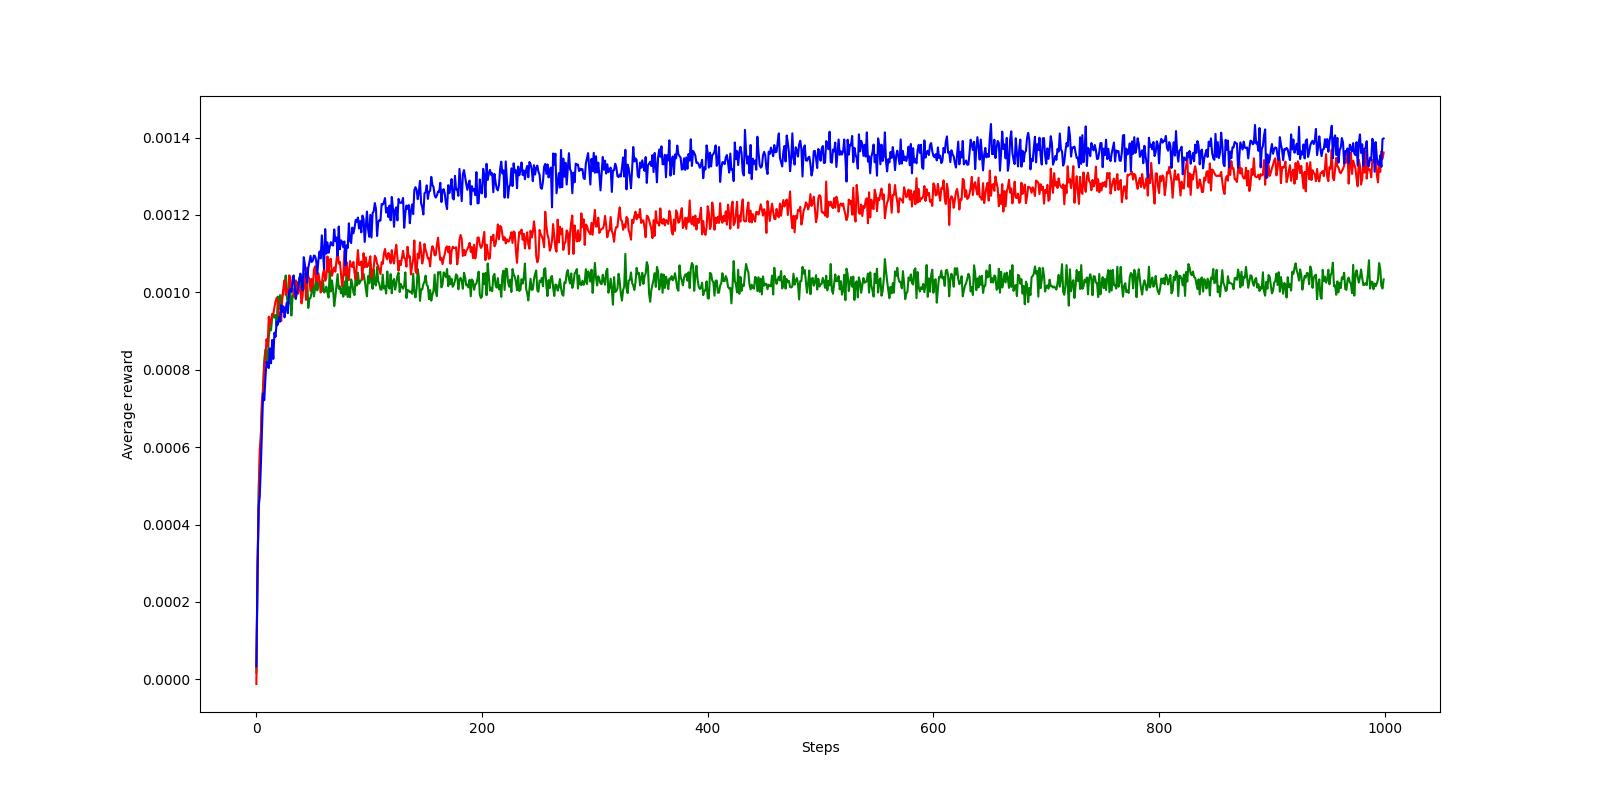
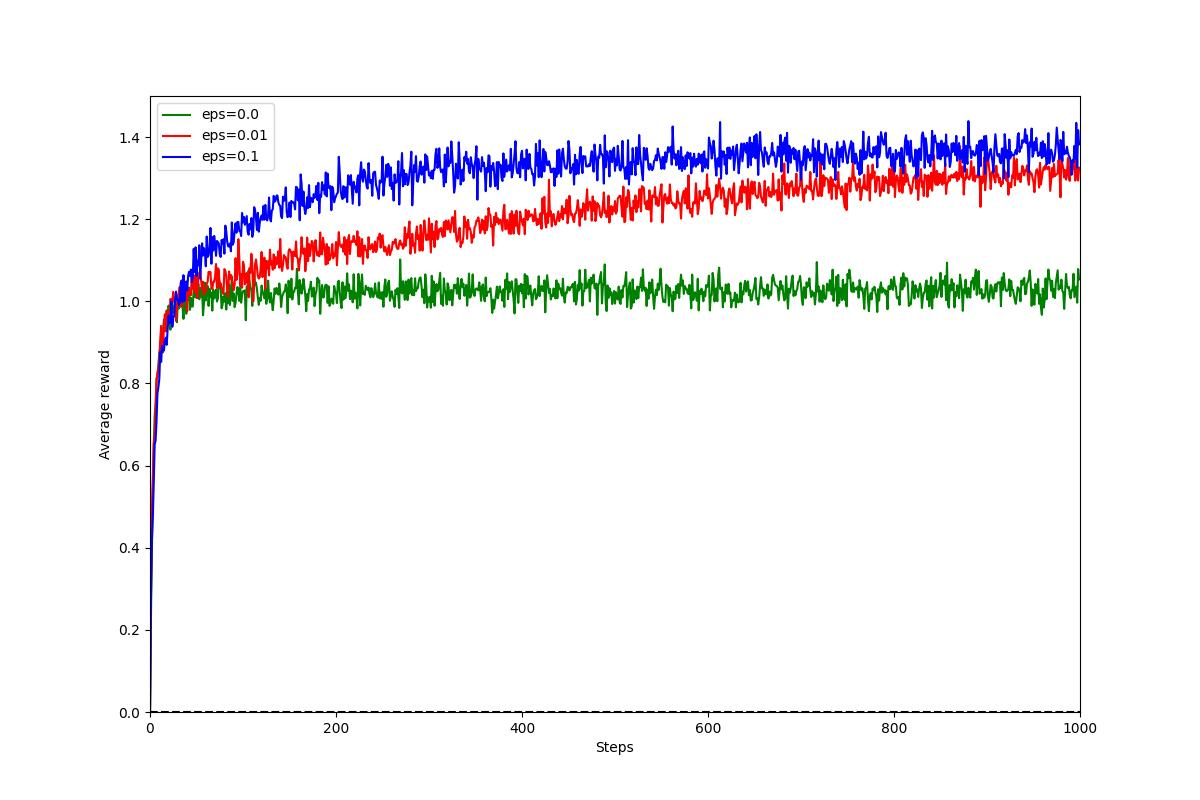
update: fix calculation and plot

diff --git a/10armed_testbed/main.py b/10armed_testbed/main.py
@@ -43,7 +43,6 @@ def run_simulation(k, eps):
             num_opt_action[step_idx-1] = num_opt_action[step_idx-2] + (action == np.argmax(q_true)) # for fig 2.3
         percent_opt_action[step_idx-1] = num_opt_action[step_idx-1] / step_idx # for fig 2.3
 
-    reward_per_steps /= num_steps
     return reward_per_steps, percent_opt_action
 
 if __name__ == "__main__":
@@ -54,27 +53,30 @@ if __name__ == "__main__":
     percent_opt_action_list = np.array([[0.0]*1000 for _ in range(len(eps_list))])
     avg_reward_list = np.array([[0.0]*1000 for _ in range(len(eps_list))])
 
-    plt.figure(figsize=(16, 8))
+    plt.figure(figsize=(12, 8))
     for eps_idx, eps in enumerate(eps_list):
-        print("Running simulation for eps=0.0")
+        print(f"Running simulation for eps={eps}")
         for run_idx in tqdm(range(1, num_runs+1)):
             reward_per_steps, percent_opt_action = run_simulation(k, eps)
             avg_reward_list[eps_idx] += (reward_per_steps - avg_reward_list[eps_idx]) / run_idx # avg over runs
             percent_opt_action_list[eps_idx] += (percent_opt_action - percent_opt_action_list[eps_idx]) / run_idx # avg over runs
-        plt.plot(avg_reward_list[eps_idx], color=colors[eps_idx])
+        plt.plot(avg_reward_list[eps_idx], color=colors[eps_idx], label=f"eps={eps}")
     plt.xlabel("Steps")
     plt.ylabel("Average reward")
+    plt.hlines(y=0, xmin=0, xmax=1000, color='k', linestyle='--')
     plt.xlim(0, 1000)
     plt.ylim(0, 1.5)
+    plt.legend()
     plt.savefig("./outputs/fig22.jpg")
     # plt.show()
 
-    plt.figure(figsize=(16, 8))
+    plt.figure(figsize=(12, 8))
     for eps_idx in range(len(eps_list)):
-        plt.plot(percent_opt_action_list[eps_idx], color=colors[eps_idx])
+        plt.plot(percent_opt_action_list[eps_idx], color=colors[eps_idx], label=f"eps={eps_list[eps_idx]}")
     plt.xlabel("Steps")
     plt.ylabel("% Optimal Action")
     plt.xlim(0, 1000)
     plt.ylim(0, 1)
+    plt.legend()
     plt.savefig("./outputs/fig23.jpg")
     # plt.show()
